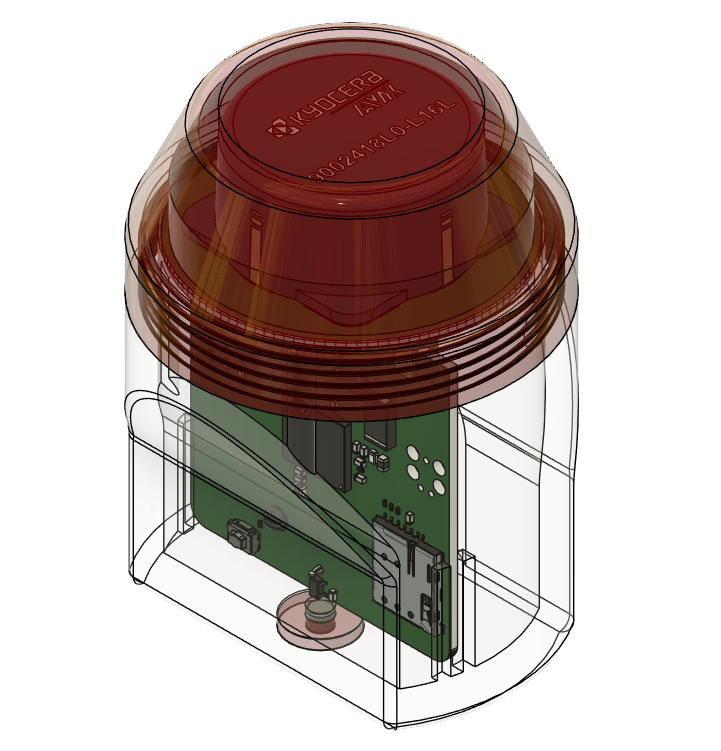
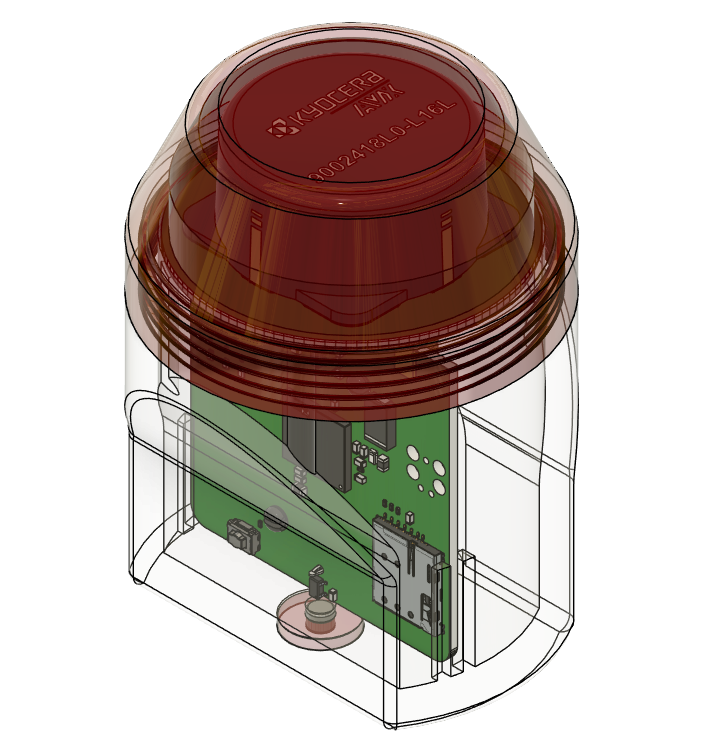
Show device photo and brighter render side by side in a captioned table

Changed region(s): [[0.2441, 0.49, 0.6408, 0.8881]]

diff --git a/README.md b/README.md
@@ -22,10 +22,12 @@ The hardware is built as an Altium Designer multi-board assembly. It combines a 
 
 The design is under active development. Review the schematics, component availability, RF constraints, and manufacturing data before building hardware.
 
-<p align="center">
-  <img src="Pictures/pic3.jpg" alt="PiggySat main board with the antenna board mounted, next to the open housing" height="420">
-  <img src="Pictures/render.png" alt="3D render of the assembled PiggySat inside the transparent housing" height="420">
-</p>
+<table align="center">
+  <tr>
+    <td align="center"><img src="Pictures/pic3.jpg" alt="PiggySat main board with the antenna board mounted, next to the open housing" width="300"><br>Boards next to the open housing</td>
+    <td align="center"><img src="Pictures/render.png" alt="3D render of the assembled PiggySat inside the transparent housing" width="300"><br>3D render of the assembled device</td>
+  </tr>
+</table>
 
 ## Purpose and architecture
 
